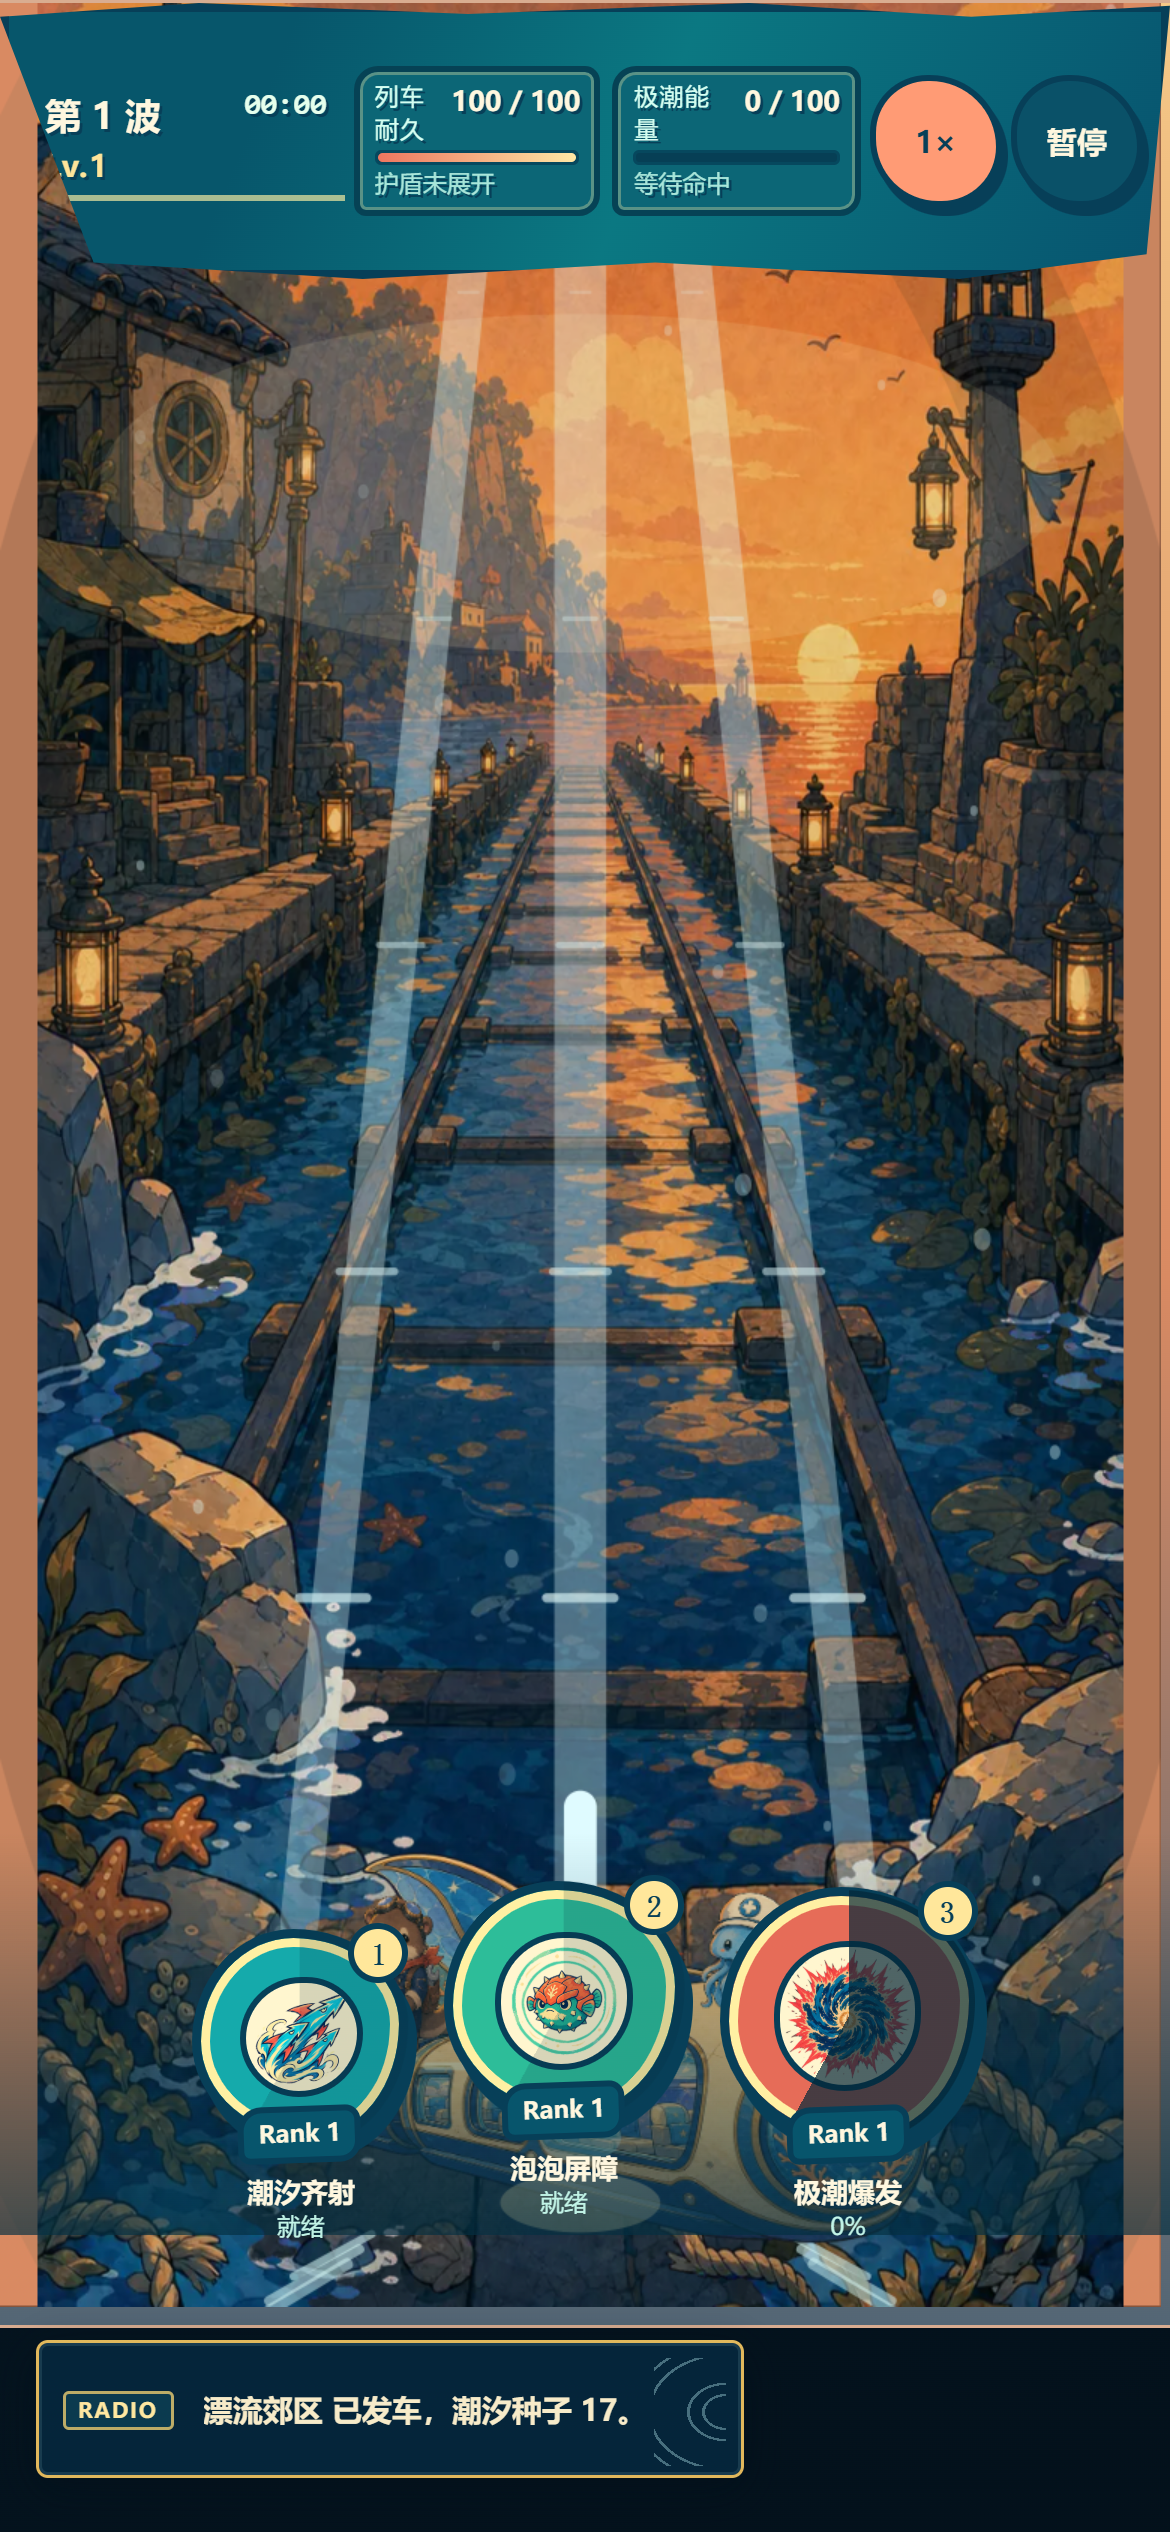
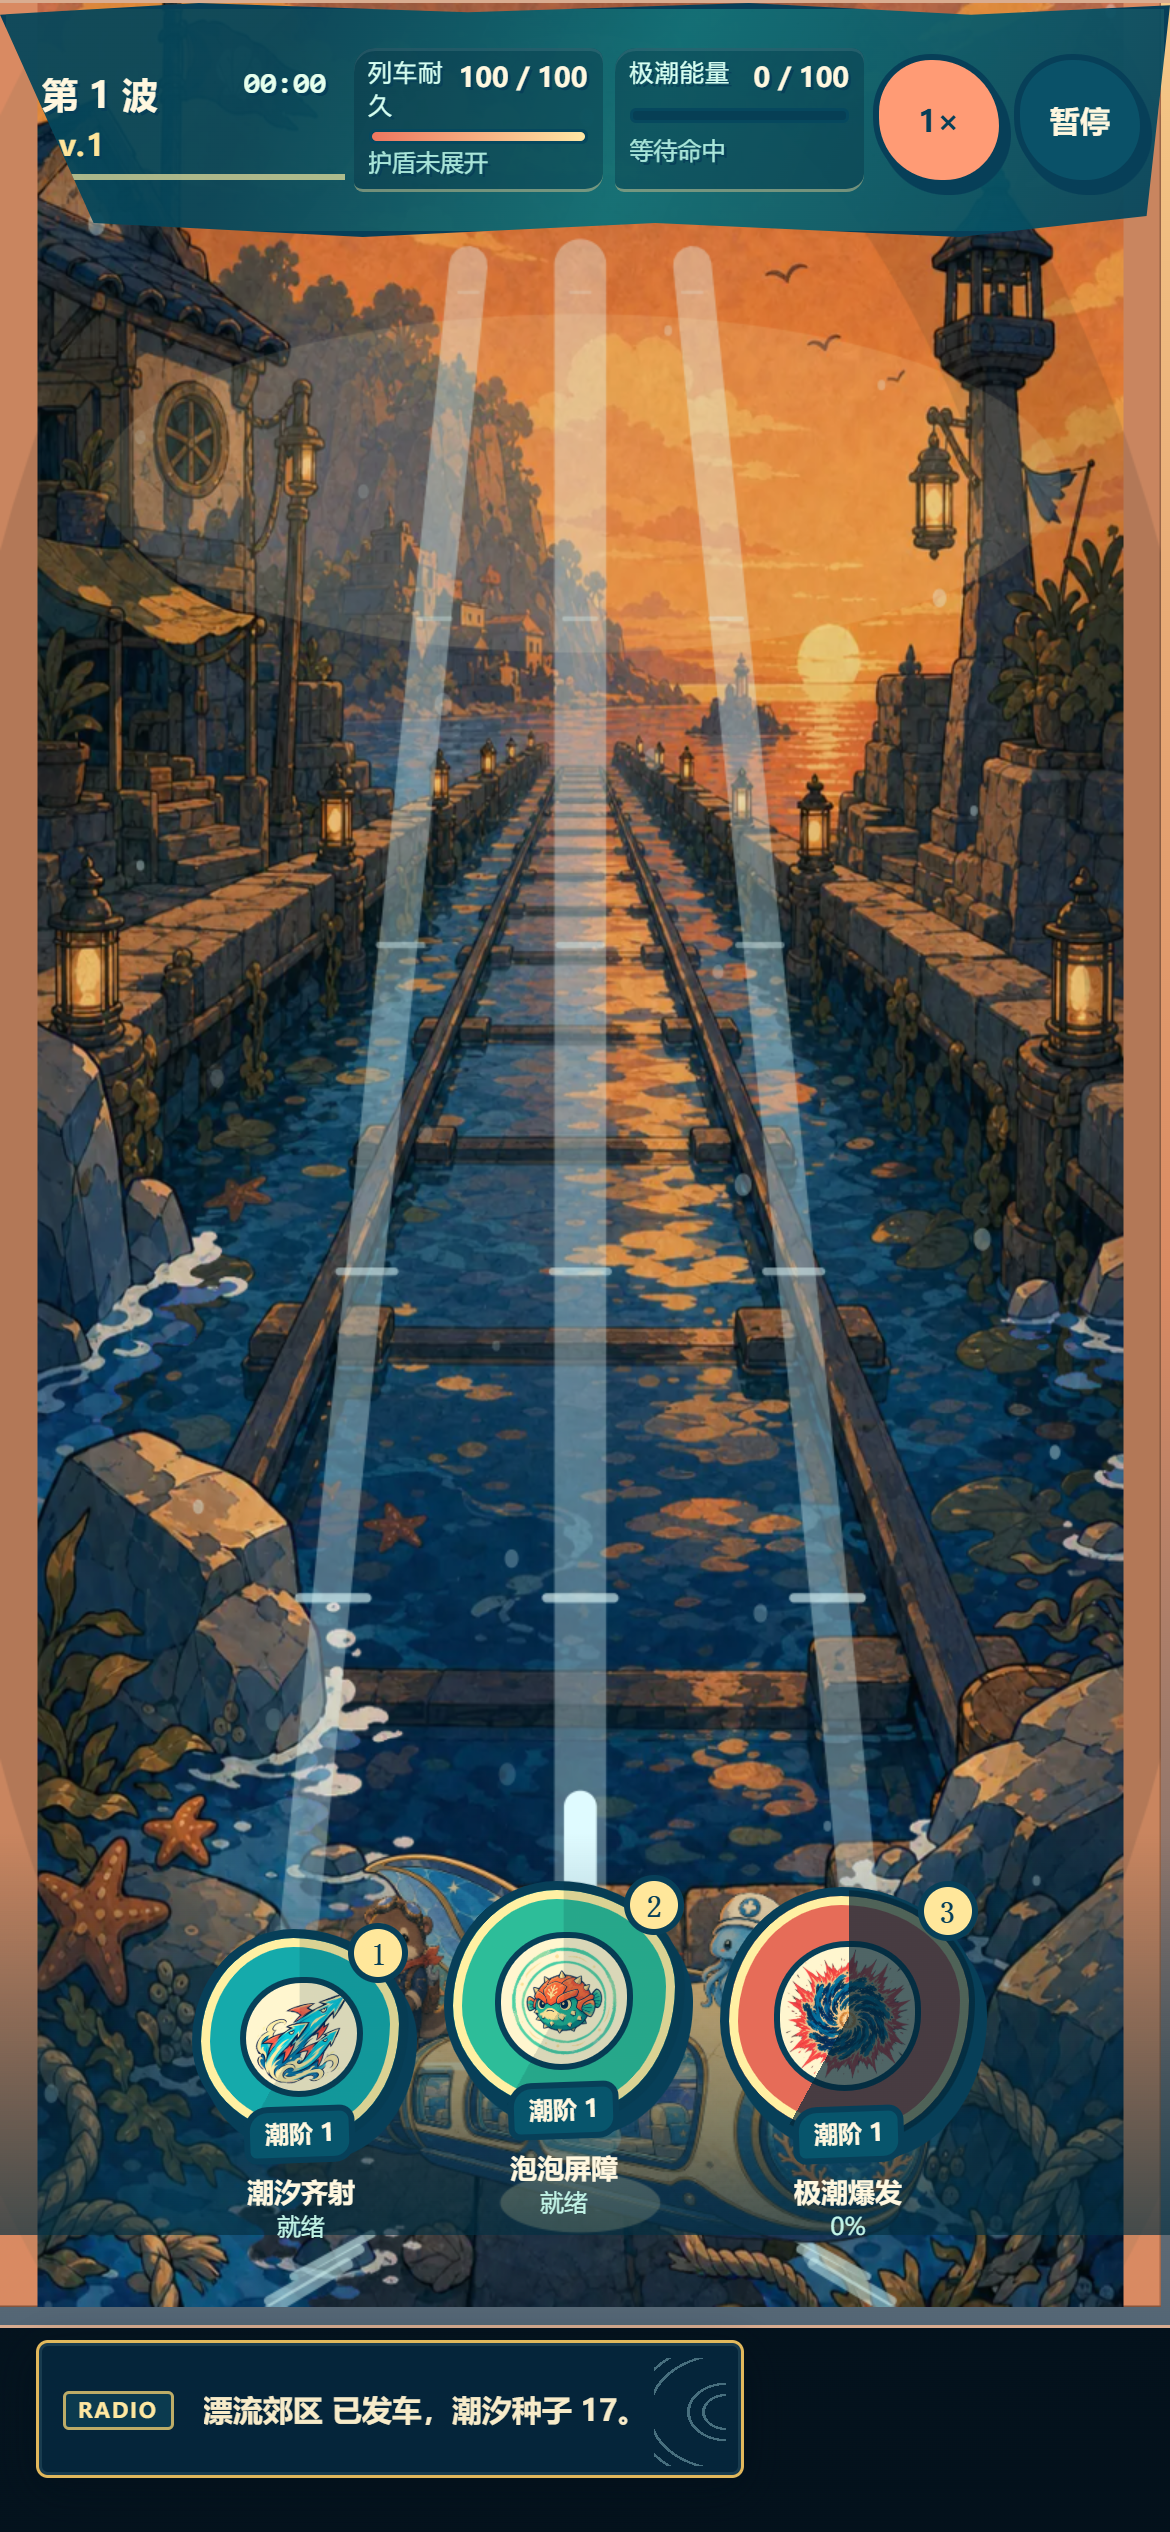
feat: slim the battle instrument strip

Changed region(s): [[0.0308, 0.0, 1.0, 0.1248], [0.4308, 0.8112, 0.5231, 0.8424], [0.0, 0.0, 0.0308, 0.0312]]

diff --git a/web/styles/battle-hud.css b/web/styles/battle-hud.css
@@ -3,14 +3,14 @@
 .battle-hud button:focus-visible, .battle-upgrade-card:focus-visible { outline: 3px solid #fff2a4; outline-offset: 3px; }
 
 /* One painted captain's log replaces the old stacked glass dashboard. */
-.battle-hud__tide-log { position: absolute; z-index: 2; top: 0; left: 50%; box-sizing: border-box; display: grid; grid-template-columns: minmax(88px, .82fr) minmax(128px, 1.25fr) minmax(72px, .64fr) 44px 44px; gap: 5px; width: min(100%, 680px); height: 108px; max-height: 108px; padding: 8px 10px; transform: translateX(-50%); border: 3px solid #073f58; color: #fff7df; background: linear-gradient(113deg, #07566b 0 23%, #0b7882 55%, #07536e 100%); box-shadow: 0 5px 0 #052e46, 0 10px 0 rgb(255 124 90 / 44%); clip-path: polygon(0 5%, 17% 0, 40% 4%, 64% 0, 83% 5%, 100% 1%, 98% 91%, 82% 100%, 56% 94%, 31% 100%, 8% 94%); text-shadow: 1px 1px 0 #073f58; }
+.battle-hud__tide-log { position: absolute; z-index: 2; top: 0; left: 50%; box-sizing: border-box; display: grid; grid-template-columns: minmax(88px, .82fr) minmax(128px, 1.25fr) minmax(72px, .64fr) 44px 44px; gap: 5px; width: min(100%, 680px); height: 94px; max-height: 94px; padding: 6px 9px; transform: translateX(-50%); border: 2px solid #073f58; color: #fff7df; background: linear-gradient(113deg, rgb(5 70 90 / 94%) 0 23%, rgb(8 112 121 / 92%) 55%, rgb(5 69 92 / 94%) 100%); box-shadow: 0 4px 0 #052e46, 0 7px 0 rgb(255 124 90 / 36%); clip-path: polygon(0 5%, 17% 0, 40% 4%, 64% 0, 83% 5%, 100% 1%, 98% 91%, 82% 100%, 56% 94%, 31% 100%, 8% 94%); text-shadow: 1px 1px 0 #073f58; }
 .battle-hud__run, .battle-hud__rails, .battle-hud__progress { min-width: 0; align-self: center; }
 .battle-hud__run { display: grid; grid-template-columns: 1fr auto; gap: 1px 6px; padding: 3px 6px; border-bottom: 2px solid rgb(255 242 164 / 66%); }
 .battle-hud__run strong { overflow: hidden; font-size: 12px; text-overflow: ellipsis; white-space: nowrap; }
 .battle-hud__run span { font: 800 10px/1 ui-monospace, SFMono-Regular, Consolas, monospace; color: #e6ffed; }
 .battle-hud__run b { grid-column: 1 / -1; color: #ffe59a; font-size: 10px; letter-spacing: .06em; }
 .battle-hud__rails { display: grid; grid-template-columns: repeat(2, minmax(0, 1fr)); gap: 4px; }
-.battle-vital, .battle-hud__progress { display: grid; grid-template-columns: minmax(0, 1fr) auto; gap: 1px 5px; padding: 3px 5px; border: 2px solid rgb(4 53 72 / 72%); border-radius: 8px 5px 7px 4px; background: #0c6676; box-shadow: inset 0 0 0 1px rgb(255 240 169 / 32%); }
+.battle-vital, .battle-hud__progress { display: grid; grid-template-columns: minmax(0, 1fr) auto; gap: 1px 5px; padding: 3px 5px; border: 0; border-bottom: 1px solid rgb(255 240 169 / 42%); border-radius: 7px 4px 6px 3px; background: rgb(4 48 66 / 38%); box-shadow: inset 0 1px 0 rgb(255 255 255 / 9%); }
 .battle-vital > span, .battle-hud__progress span { color: #d6fff2; font-size: 8px; letter-spacing: .05em; }
 .battle-vital > b, .battle-hud__progress b { color: #fff7df; font-size: 9px; }
 .battle-vital > small { grid-column: 1 / -1; overflow: hidden; color: #a9e6da; font-size: 8px; text-overflow: ellipsis; white-space: nowrap; }
@@ -24,7 +24,7 @@
 .battle-hud__pause { color: #fff7df; background: #0a5168; }
 .battle-hud__speed:disabled { opacity: .68; }
 
-.battle-interaction { position: absolute; z-index: 1; top: 124px; right: calc(10px + env(safe-area-inset-right)); width: min(238px, calc(100% - 20px)); }
+.battle-interaction { position: absolute; z-index: 1; top: 108px; right: calc(10px + env(safe-area-inset-right)); width: min(238px, calc(100% - 20px)); }
 .battle-interaction button { display: grid; grid-template-columns: 34px 1fr auto; align-items: center; gap: 8px; width: 100%; min-height: 56px; padding: 8px 10px; border: 3px solid #07445d; border-radius: 16px 12px 15px 10px; color: #164654; text-align: left; background: #fff1c4; box-shadow: 4px 5px 0 rgb(7 68 93 / 52%); animation: battle-interaction-in 260ms ease both; }
 .battle-interaction__symbol { display: grid; place-items: center; width: 32px; height: 32px; border: 2px solid #07445d; border-radius: 46% 54% 51% 49%; color: #fff7df; background: #e76e58; }
 .battle-interaction button span:nth-child(2) { display: grid; min-width: 0; }.battle-interaction button b { font-size: 11px; }.battle-interaction button small { color: #4c7782; font-size: 9px; }.battle-interaction button > strong { color: #b74f42; font-size: 10px; }.battle-interaction p { min-height: 18px; margin: 5px 5px 0; color: #fff7df; font-size: 10px; text-align: right; text-shadow: 1px 1px #073f58; }
@@ -48,8 +48,8 @@
 .battle-settlement-progression [data-settlement-account] { color: #b64d42; }
 .battle-settlement-progression [data-settlement-mastery] { color: #174858; }
 @keyframes battle-interaction-in { from { opacity: 0; transform: translateX(12px) scale(.96); } to { opacity: 1; transform: translateX(0) scale(1); } } @keyframes battle-countdown { 0% { opacity: 0; transform: scale(.82); } 35% { opacity: 1; transform: scale(1.05); } 100% { opacity: .7; transform: scale(1); } } @keyframes battle-ready-pulse { 0% { opacity: .66; transform: scale(.9); } 100% { opacity: 0; transform: scale(1.08); } } @keyframes battle-rank-five-breathe { 50% { transform: translateY(-2px) rotate(1deg); } } @keyframes battle-refresh-signal { 0% { opacity: .52; transform: scale(.82); } 72%, 100% { opacity: 0; transform: scale(1.16); } }
-@media (max-width: 430px) { .battle-hud__tide-log { grid-template-columns: minmax(64px, .72fr) minmax(112px, 1.15fr) 44px 44px; gap: 3px; height: 92px; max-height: 92px; padding: 5px 6px; }.battle-hud__progress { display: none; }.battle-hud__speed, .battle-hud__pause { width: 44px; min-width: 44px; min-height: 44px; }.battle-interaction { top: 116px; right: 8px; }.battle-upgrade-grid { grid-template-columns: 1fr; }.battle-upgrade-card { min-height: 118px; } }
-@media (max-width: 370px) { .battle-hud__tide-log { grid-template-columns: 70px 1fr 44px 44px; height: 92px; max-height: 92px; padding-block: 5px; }.battle-hud__run strong { font-size: 10px; }.battle-vital > span { font-size: 7px; }.battle-vital > small { display: none; }.battle-hud__skills { gap: 8px; bottom: calc(28px + env(safe-area-inset-bottom)); padding-bottom: 28px; }.battle-skill { width: 64px; height: 64px; }.battle-skill:nth-child(2) { width: 70px; height: 70px; }.battle-skill:nth-child(3) { width: 76px; height: 76px; }.battle-skill__copy { display: grid; width: 84px; }.battle-hud__refresh { top: -68px; right: 8px; }.battle-dialog { padding: 18px; }.battle-dialog--settlement { padding: 14px; }.battle-settlement-progression { padding: 6px 7px; }.battle-settlement-progression p { font-size: 9px; } }
+@media (max-width: 430px) { .battle-hud__tide-log { grid-template-columns: minmax(64px, .72fr) minmax(112px, 1.15fr) 44px 44px; gap: 3px; height: 78px; max-height: 78px; padding: 4px 6px; }.battle-hud__progress { display: none; }.battle-hud__speed, .battle-hud__pause { width: 44px; min-width: 44px; min-height: 44px; }.battle-interaction { top: 94px; right: 8px; }.battle-upgrade-grid { grid-template-columns: 1fr; }.battle-upgrade-card { min-height: 118px; } }
+@media (max-width: 370px) { .battle-hud__tide-log { grid-template-columns: 70px 1fr 44px 44px; height: 78px; max-height: 78px; padding-block: 4px; }.battle-hud__run { grid-template-columns: 1fr; gap: 0; padding: 3px 0 3px 9px; }.battle-hud__run strong { font-size: 10px; }.battle-hud__run span, .battle-hud__run b { grid-column: 1; }.battle-vital { gap: 1px 3px; padding-inline: 3px; }.battle-vital > span { font-size: 7px; letter-spacing: 0; white-space: nowrap; }.battle-vital > b { font-size: 8px; }.battle-vital > small { display: none; }.battle-hud__skills { gap: 8px; bottom: calc(28px + env(safe-area-inset-bottom)); padding-bottom: 28px; }.battle-skill { width: 64px; height: 64px; }.battle-skill:nth-child(2) { width: 70px; height: 70px; }.battle-skill:nth-child(3) { width: 76px; height: 76px; }.battle-skill__copy { display: grid; width: 84px; }.battle-hud__refresh { top: -68px; right: 8px; }.battle-dialog { padding: 18px; }.battle-dialog--settlement { padding: 14px; }.battle-settlement-progression { padding: 6px 7px; }.battle-settlement-progression p { font-size: 9px; } }
 @media (min-width: 768px) { .battle-hud__tide-log { width: min(86%, 760px); }.battle-hud__skills { padding-bottom: 24px; }.battle-skill { width: 78px; height: 78px; }.battle-skill:nth-child(2) { width: 86px; height: 86px; }.battle-skill:nth-child(3) { width: 94px; height: 94px; } }
 @media (prefers-reduced-motion: reduce) { .battle-meter i, .battle-meter b { transition: none; }.battle-interaction button, .battle-upgrade-countdown, .battle-skill.is-ready::after, .battle-skill[data-rank="5"] { animation: none; } }
 @media (prefers-reduced-motion: reduce) { .battle-hud__refresh::after { animation: none; } }

diff --git a/tests/web/battle/BattleHUD.spec.ts b/tests/web/battle/BattleHUD.spec.ts
@@ -75,6 +75,24 @@ describe('BattleHUD', () => {
     expect(html).not.toContain('data-boss-label');
   });
 
+  it('keeps the captain instrument strip compact and avoids boxed vital cards', () => {
+    expect(battleHudCss).toMatch(
+      /\.battle-hud__tide-log\s*\{[^}]*height:\s*94px;[^}]*max-height:\s*94px;/s,
+    );
+    expect(battleHudCss).toMatch(
+      /\.battle-vital,\s*\.battle-hud__progress\s*\{[^}]*border:\s*0;[^}]*background:\s*rgb\(4 48 66 \/ 38%\);/s,
+    );
+    expect(battleHudCss).toMatch(
+      /@media \(max-width: 430px\)[\s\S]*?\.battle-hud__tide-log\s*\{[^}]*height:\s*78px;[^}]*max-height:\s*78px;/s,
+    );
+    expect(battleHudCss).toMatch(
+      /@media \(max-width: 370px\)[\s\S]*?\.battle-hud__run\s*\{[^}]*grid-template-columns:\s*1fr;/s,
+    );
+    expect(battleHudCss).toMatch(
+      /@media \(max-width: 370px\)[\s\S]*?\.battle-vital\s*>\s*span\s*\{[^}]*white-space:\s*nowrap;/s,
+    );
+  });
+
   it('labels rewarded battle actions as radio supplies with explicit ad disclosure', () => {
     const host = document.createElement('div');
     host.innerHTML = renderBattleHudShell();

diff --git a/tests/smoke/battle-pixel-evidence.spec.ts b/tests/smoke/battle-pixel-evidence.spec.ts
@@ -528,7 +528,7 @@ describe('battle pixel evidence helpers', () => {
     const css = await readFile(new URL('../../web/styles/battle-hud.css', import.meta.url), 'utf8');
 
     expect(css).toContain('.battle-hud__tide-log');
-    expect(css).toContain('max-height: 108px');
+    expect(css).toContain('max-height: 94px');
     expect(css).toContain('.battle-skill[data-rank="3"]');
     expect(css).toContain('.battle-skill[data-rank="5"]');
     expect(css).toContain('@media (prefers-reduced-motion: reduce)');
